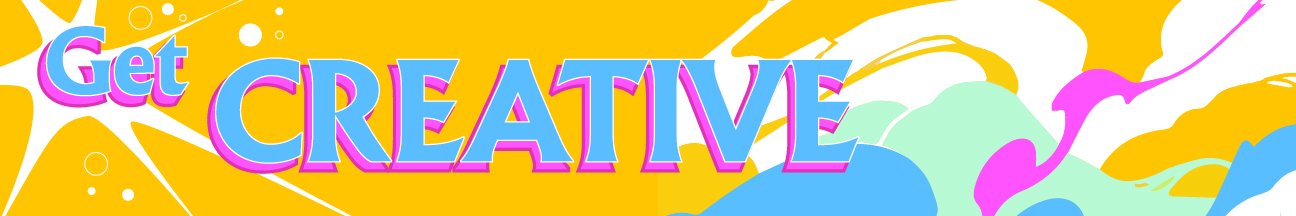
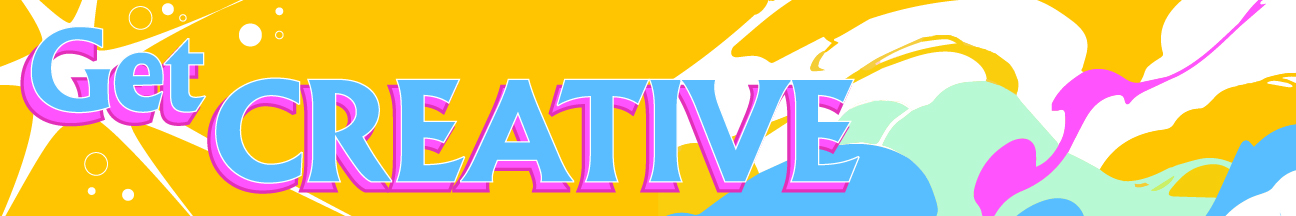
Update homepage mobile layout and button styling

Changed region(s): [[0.0, 0.1111, 0.679, 0.9167]]

diff --git a/home.html b/home.html
@@ -324,8 +324,13 @@
 				}
 
 				.bestslider-nav {
-					bottom: 0.75em;
-					padding: 0.35em 0.55em;
+					top: 50%;
+					right: 0.7em;
+					left: auto;
+					bottom: auto;
+					transform: translateY(-50%);
+					flex-direction: column;
+					padding: 0.5em 0.4em;
 				}
 
 				#one.tiles article,
@@ -452,6 +457,7 @@
 				}
 
 				#one.tiles article.design-tile {
+					background-image: url('images/HomeButtons/DESIGN_Small button.jpg') !important;
 					background-size: auto 100% !important;
 					background-position: left center !important;
 					background-repeat: no-repeat !important;
@@ -466,6 +472,22 @@
 					background-position: left center !important;
 					background-repeat: no-repeat !important;
 					width: 100% !important;
+				}
+
+				#products-cta .about-me-cta {
+					background-position: left center !important;
+					background-size: cover !important;
+				}
+
+				#products-cta .products-bg-track {
+					top: -45px !important;
+					bottom: auto !important;
+					height: 110% !important;
+				}
+
+				#two .about-me-cta {
+					background-position: left center !important;
+					background-size: auto 110% !important;
 				}
 			}
 			
@@ -685,7 +707,7 @@
 			.about-me-button .cta-kicker {
 				display: inline-block;
 				color: #ff69b4;
-				font-size: 0.8em;
+				font-size: calc(0.8em + 2pt);
 				font-weight: 700;
 				letter-spacing: 0.12em;
 				text-transform: uppercase;
@@ -721,12 +743,12 @@
 				margin: 0;
 				max-width: 30ch;
 				color: rgba(255, 255, 255, 0.88);
-				font-size: 0.82em;
+				font-size: calc(0.82em + 2pt);
 				font-weight: 400;
 				line-height: calc(1em + 5px);
 				letter-spacing: 0.01em;
 				text-transform: none !important;
-				transform: translateY(15px);
+				transform: translateY(9px);
 				text-shadow: 0 2px 10px rgba(0, 0, 0, 0.78);
 			}
 
@@ -802,7 +824,7 @@
 				padding: 5px;
 				width: 100%;
 				margin: 0 auto;
-				background: #000 url('images/HomeButtons/ME_ button.jpg') center center / cover no-repeat;
+				background: #000 url('images/HomeButtons/ME_ button.jpg') center calc(50% + 30px) / 105% auto no-repeat;
 				box-shadow: 0 18px 46px rgba(0, 0, 0, 0.26);
 				isolation: isolate;
 			}
@@ -895,13 +917,14 @@
 
 			@media screen and (max-width: 736px) {
 				.about-me-cta {
-					min-height: 150px;
-					padding: 1.25em;
+					min-height: 190px;
+					padding: 5px;
+					align-items: flex-end !important;
 				}
 
 				#one.tiles article header.major,
 				.about-me-button {
-					padding: 34px 24px 16px 20px !important;
+					padding: 31px 34px 13px 20px !important;
 					background: linear-gradient(90deg, rgba(6, 6, 10, 0) 0%, rgba(6, 6, 10, 0.12) 28%, rgba(10, 10, 16, 0.4) 64%, rgba(16, 16, 24, 0.58) 100%) !important;
 					border: 0 !important;
 					box-shadow: none !important;
@@ -911,20 +934,37 @@
 					outline: 0 !important;
 					height: auto !important;
 					min-height: 0 !important;
-					margin: -2px -25px 0 -5px !important;
+					margin: 0 -25px 0 -5px !important;
 					width: calc(100% + 30px) !important;
 					max-width: none !important;
+					align-self: flex-end !important;
 					align-items: flex-end !important;
 					text-align: right !important;
-					gap: 0.16em !important;
+					gap: 0 !important;
+					position: relative !important;
+					top: 6px !important;
 				}
 
 				#one.tiles article header.major .cta-kicker,
-				.about-me-button .cta-kicker {
+				#one.tiles article .about-me-button .cta-kicker {
 					color: #ff69b4 !important;
 					text-transform: uppercase !important;
 					font-size: 1.6em !important;
-					line-height: 0.95 !important;
+					line-height: calc(0.95em - 10px) !important;
+					transform: translateY(-17px) !important;
+					text-shadow: 0 1px 1px rgba(0, 0, 0, 0.98), 0 2px 4px rgba(0, 0, 0, 0.95) !important;
+					width: fit-content !important;
+					margin-left: auto !important;
+					margin-right: 0 !important;
+				}
+
+				#products-cta .about-me-button .cta-kicker,
+				#two .about-me-button .cta-kicker {
+					color: #ff69b4 !important;
+					text-transform: uppercase !important;
+					font-size: 1.6em !important;
+					line-height: calc(0.95em - 10px) !important;
+					transform: translateY(-17px) !important;
 					text-shadow: 0 1px 1px rgba(0, 0, 0, 0.98), 0 2px 4px rgba(0, 0, 0, 0.95) !important;
 					width: fit-content !important;
 					margin-left: auto !important;
@@ -933,11 +973,49 @@
 
 				#one.tiles article header.major h3,
 				#one.tiles article header.major h3 a,
-				.about-me-button h3 {
+				#one.tiles article .about-me-button h3 {
 					color: #ffffff !important;
 					text-transform: uppercase !important;
-					line-height: 0.95 !important;
+					line-height: calc(0.95em - 10px) !important;
+					transform: translateY(-3px) !important;
 					text-shadow: 0 1px 1px rgba(0, 0, 0, 0.98), 0 2px 5px rgba(0, 0, 0, 0.96) !important;
+				}
+
+				#products-cta .about-me-button h3,
+				#two .about-me-button h3 {
+					color: #ffffff !important;
+					text-transform: uppercase !important;
+					line-height: calc(0.95em - 10px) !important;
+					transform: translateY(-4px) !important;
+					text-shadow: 0 1px 1px rgba(0, 0, 0, 0.98), 0 2px 5px rgba(0, 0, 0, 0.96) !important;
+				}
+
+				#products-cta .about-me-button,
+				#two .about-me-button {
+					padding: 31px 34px 13px 20px !important;
+					margin: 0 -25px 0 -5px !important;
+					gap: 0 !important;
+					position: relative !important;
+					top: 6px !important;
+				}
+
+				#two .about-me-button {
+					background: transparent !important;
+					overflow: hidden !important;
+				}
+
+				#two .about-me-button::before {
+					content: '';
+					position: absolute;
+					inset: 0;
+					background: linear-gradient(90deg, rgba(6, 6, 10, 0) 0%, rgba(6, 6, 10, 0) 56%, rgba(10, 10, 16, 0.2) 74%, rgba(16, 16, 24, 0.58) 100%) !important;
+					pointer-events: none;
+					z-index: 0;
+				}
+
+				#two .about-me-button > * {
+					position: relative;
+					z-index: 1;
 				}
 
 				#one.tiles article header.major p,
@@ -949,6 +1027,7 @@
 				}
 
 				#one.tiles article.design-tile {
+					background-image: url('images/HomeButtons/DESIGN_Small button.jpg') !important;
 					background-position: left center !important;
 					background-repeat: no-repeat !important;
 					background-size: auto 100% !important;
@@ -962,10 +1041,16 @@
 					background-size: cover !important;
 				}
 
+				#products-cta .products-bg-track {
+					top: -45px !important;
+					bottom: auto !important;
+					height: 110% !important;
+				}
+
 				#two .about-me-cta {
-					background-position: calc(0% - 120px) center !important;
+					background-position: left center !important;
 					background-repeat: no-repeat !important;
-					background-size: cover !important;
+					background-size: auto 110% !important;
 				}
 
 				.tiles article.slide-article:before,
@@ -988,6 +1073,9 @@
 				height: 2.2em;
 				width: auto;
 				display: block;
+				position: relative;
+				left: -6px;
+				top: 6px;
 				transition: opacity 0.2s ease, filter 0.2s ease;
 				filter: drop-shadow(0 0 5px rgba(255,255,255,0.75));
 			}
